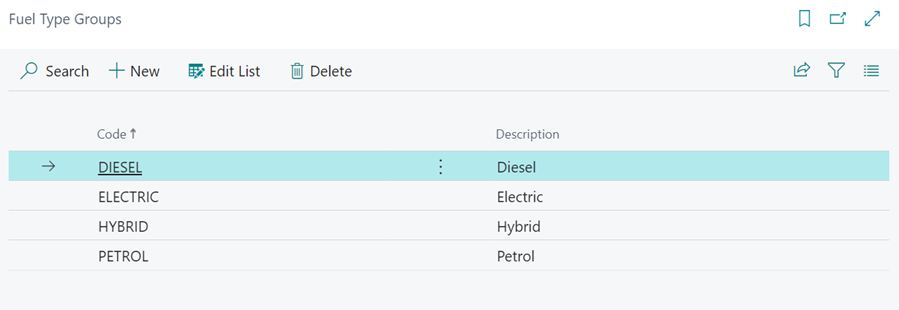
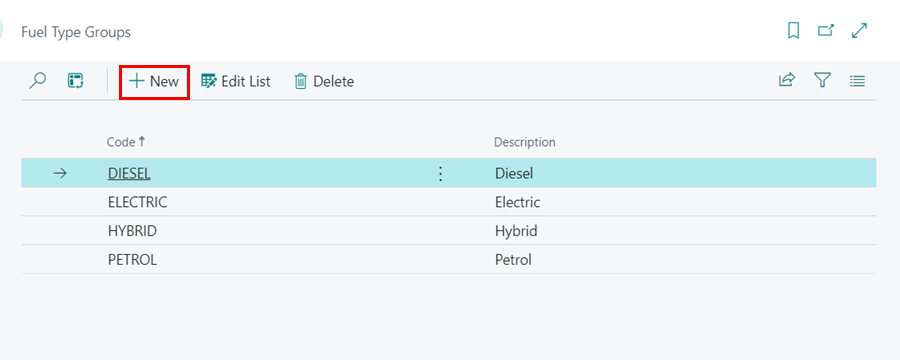
fuel types

diff --git a/docs/garagehive-fuel-types.md b/docs/garagehive-fuel-types.md
@@ -6,26 +6,28 @@ title: Adding Fuel Type Group Code
 <a name="top"></a>
 
 # Adding Fuel Type Group Code
-**Fuel type Groups** is a feature in Garage Hive that allows you to categorise vehicle engines based on the type of fuel they use. The various fuel types help in determining which vehicles are the garage's most regular customers, as well as knowing about the different fuel trends that customers are adopting.
+Fuel Type Groups is a feature in Garage Hive that enables you to classify vehicle engines according to their fuel type. By identifying these various fuel types, you can determine which vehicles are the garage's most frequent visitors, as well as gain insights into the evolving fuel trends that customers are embracing through the reports.
 
 To edit the **Fuel Type Groups**:
 1. Search for **Fuel Type Groups** in the top right corner ![](media/search_icon.png) icon and select the related result.
-2. In the page that opens, choose **New** to create a new **Fuel Type Group**.
 
-   ![](media/garagehive-fuel-types1.gif)
+   ![](media/garagehive-fuel-types1.png)
 
-3. The following list is already pre-populated in the system.
+2. Once the page opens, click on **New** to create a new **Fuel Type Group**. The system will already have a pre-populated list.
 
    ![](media/garagehive-fuel-types2.png)
 
-4. Then, in the top right corner search icon, type **Fuel Types** and select the related link. **Fuel Types** list is automatically generated when **Vehicle Data Lookup** is done.
-5. From the **Fuel Type** list, add **Fuel Group Code** in the **Group Code** field.
+3. Next, in the top right corner search icon, type **Fuel Types** and select the related link. **Fuel Types** list is automatically generated when **Vehicle Data Lookup** is done.
 
-   ![](media/garagehive-fuel-types3.gif)
+   ![](media/garagehive-fuel-types3.png)
 
-6. You can view a vehicle's **Fuel Type Code** from the **Vehicle** card; select a vehicle from the **Vehicle** list and scroll down to the **Engine** FastTab, where the **Fuel Type Code** field is.
+4. From the **Fuel Type** list, select **Edit List** and add Fuel Group in the **Group Code** field.
 
-   ![](media/garagehive-fuel-types4.gif)
+   ![](media/garagehive-fuel-types4.png)
+
+5. To view a vehicle's **Fuel Type Code**, select a vehicle from the **Vehicle** list and scroll down to the **Engine** FastTab, where you'll find the **Fuel Type Code** field.
+
+   ![](media/garagehive-fuel-types5.png)
 
 
 [Go back to top](#top)
